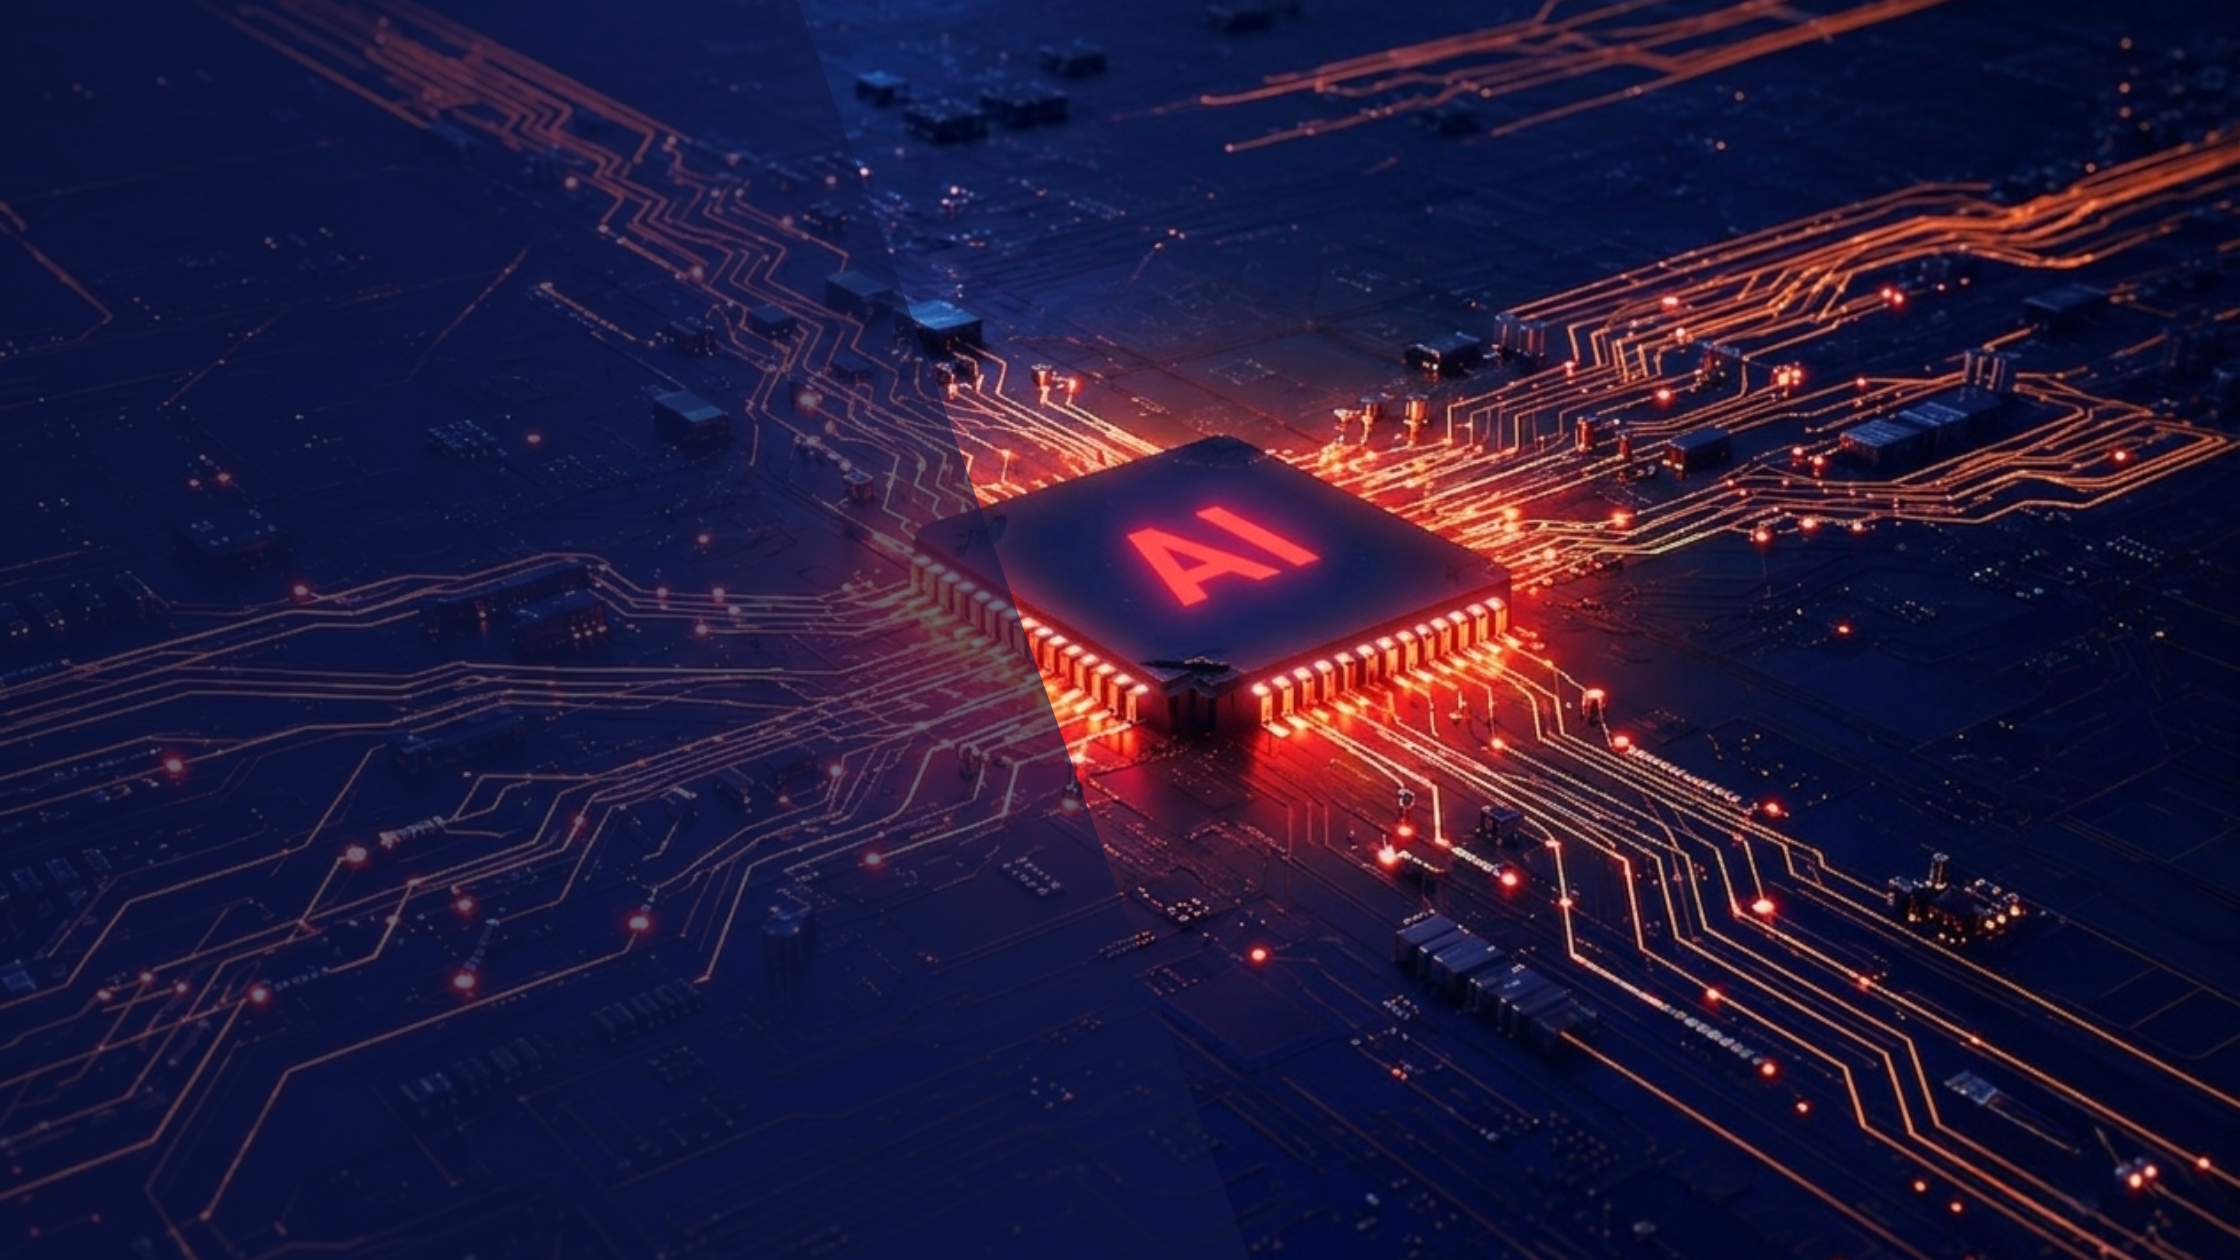
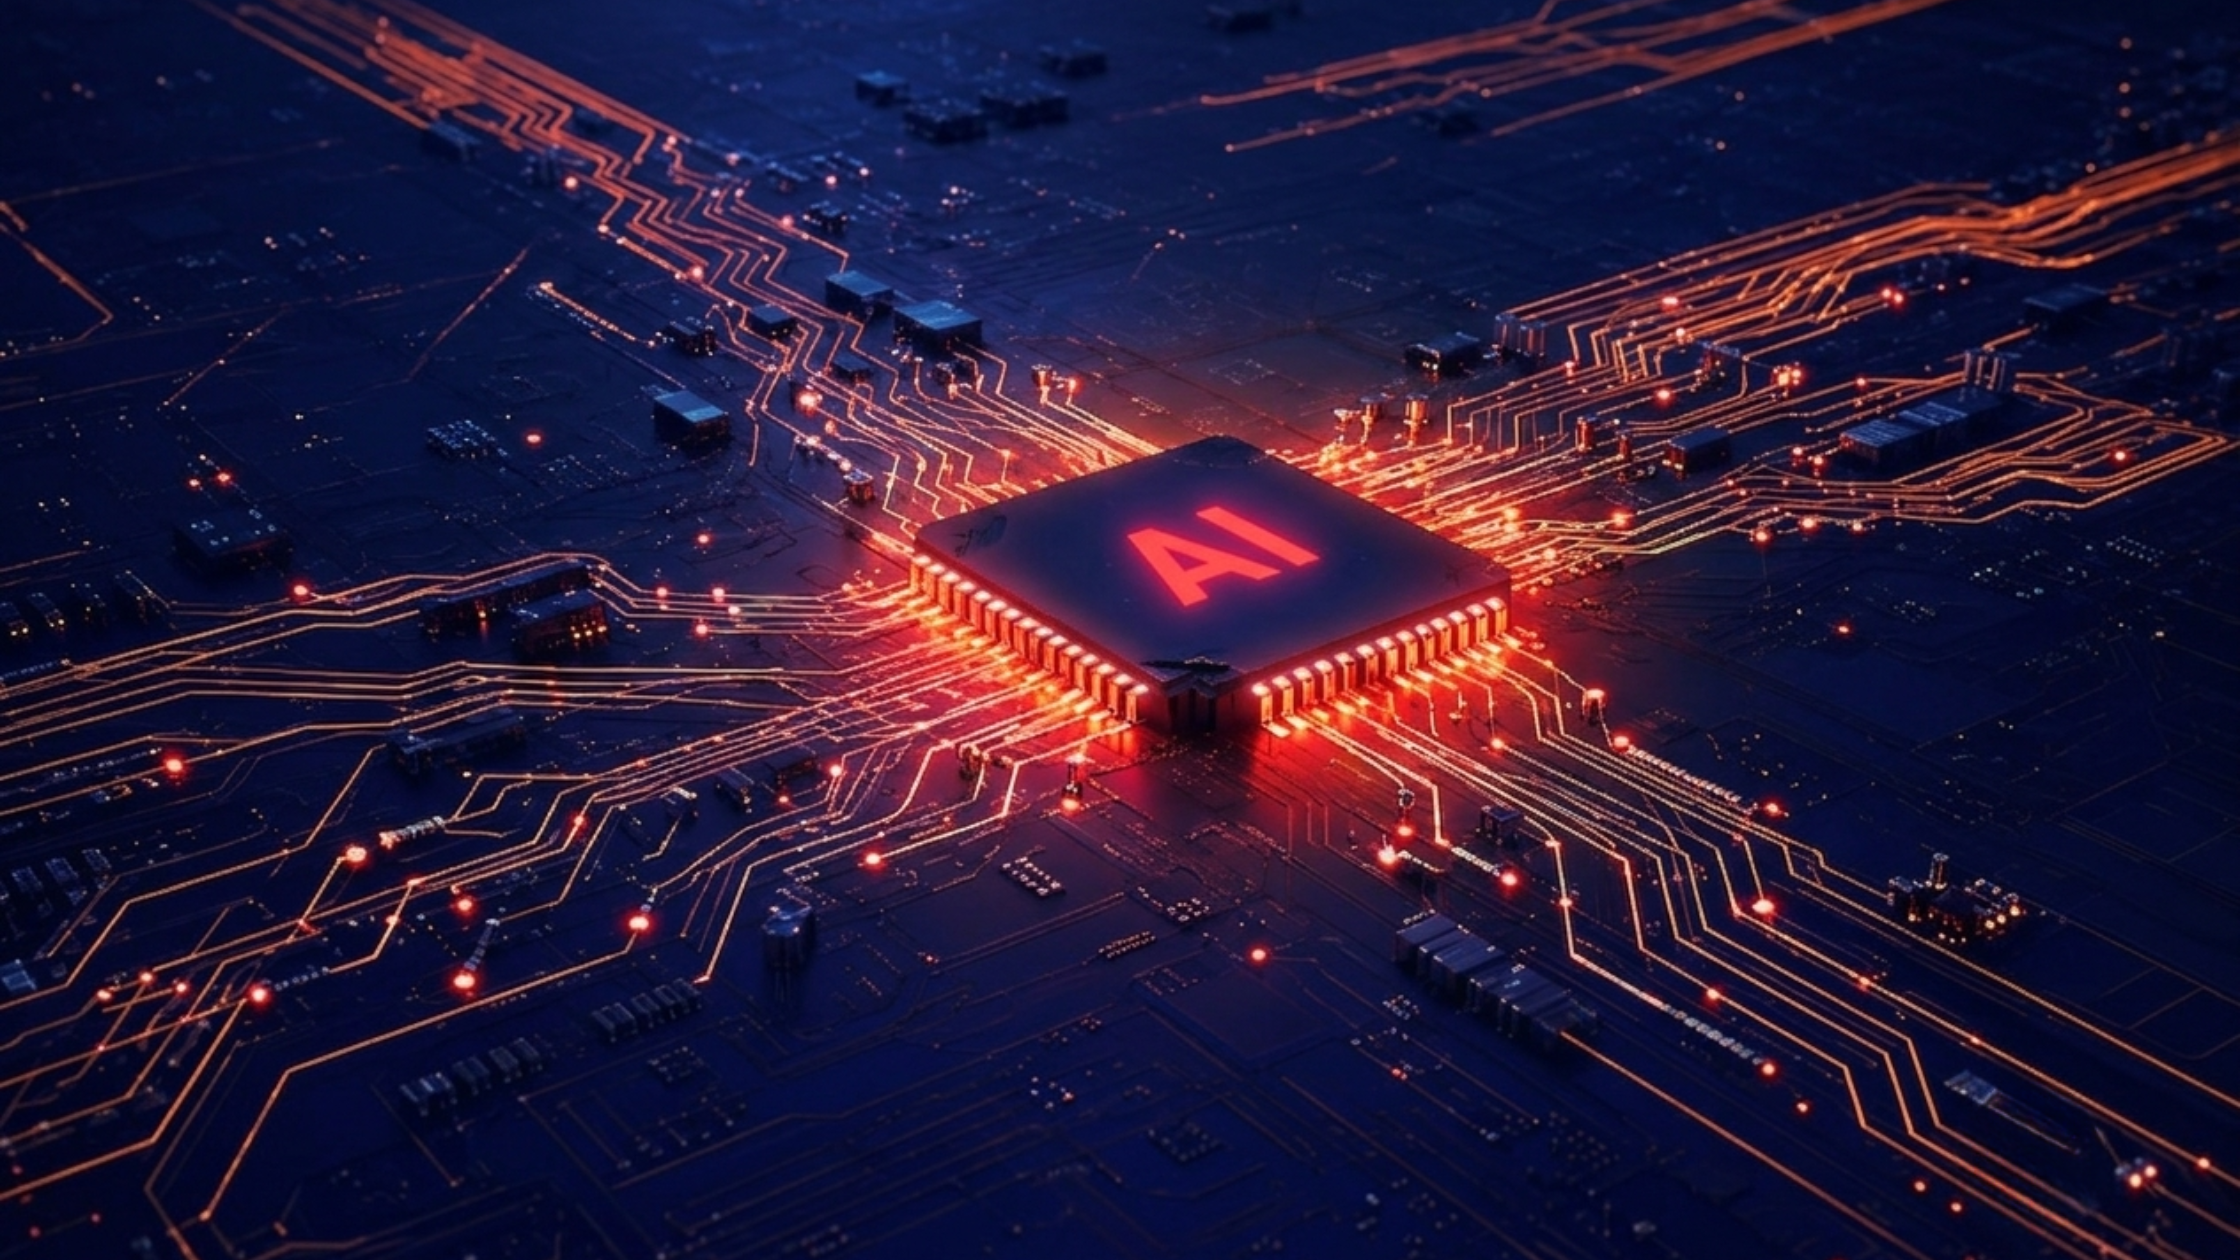
replaced new image in blogs

diff --git a/lib/public-assets.ts b/lib/public-assets.ts
@@ -7,7 +7,7 @@
 
 export const assetVersions = {
   industries: "7",
-  blog: "5",
+  blog: "6",
 } as const;
 
 export function withAssetVersion(path: string, version: string): string {

diff --git a/public/README.md b/public/README.md
@@ -7,7 +7,7 @@ Static files served from the site root. Prefer paths from `lib/public-assets.ts`
 | Folder | Contents |
 |--------|----------|
 | `assets/about/` | About page and homepage about section imagery |
-| `assets/blog/` | Resource hub blog banner images (`1.jpg`–`3.jpg`) |
+| `assets/blog/` | Resource hub blog banner images (`1.png`–`3.png`) |
 | `assets/contact/` | Contact page hero |
 | `assets/credentials/` | ISO, GSA, Sourcewell, TIPS badge marks |
 | `assets/hero/` | Homepage carousel slides |